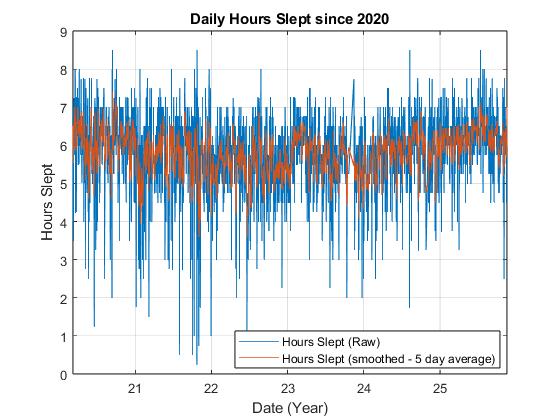
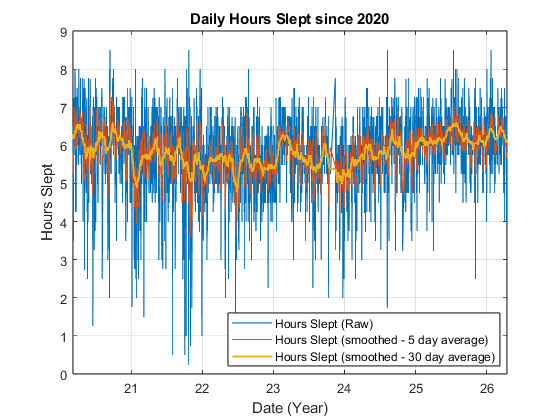
Update for Apr15 2026.  changed just2025 to from2025.  Fixed smoothing (smooth to smoothdata).

Changed region(s): [[0.1214, 0.0929, 0.9107, 0.9595], [0.3339, 0.8976, 0.3946, 0.9595], [0.2125, 0.8976, 0.2429, 0.9595]]

diff --git a/loadSleepLog_from2025.html b/loadSleepLog_from2025.html
@@ -6,11 +6,11 @@
 This HTML was auto-generated from MATLAB code.
 To make changes, update the MATLAB code and republish this document.
       -->
-<title>loadSleepLog_just2025</title>
+<title>loadSleepLog_from2025</title>
 <meta name="generator" content="MATLAB 23.2">
 <link rel="schema.DC" href="http://purl.org/dc/elements/1.1/">
 <meta name="DC.date" content="2025-11-19">
-<meta name="DC.source" content="loadSleepLog_just2025.m">
+<meta name="DC.source" content="loadSleepLog_from2025.m">
 <style type="text/css">
 html,body,div,span,applet,object,iframe,h1,h2,h3,h4,h5,h6,p,blockquote,pre,a,abbr,acronym,address,big,cite,code,del,dfn,em,font,img,ins,kbd,q,s,samp,small,strike,strong,tt,var,b,u,i,center,dl,dt,dd,ol,ul,li,fieldset,form,label,legend,table,caption,tbody,tfoot,thead,tr,th,td{margin:0;padding:0;border:0;outline:0;font-size:100%;vertical-align:baseline;background:transparent}body{line-height:1}ol,ul{list-style:none}blockquote,q{quotes:none}blockquote:before,blockquote:after,q:before,q:after{content:'';content:none}:focus{outine:0}ins{text-decoration:none}del{text-decoration:line-through}table{border-collapse:collapse;border-spacing:0}
 
@@ -103,7 +103,7 @@ table td { padding:7px 5px; text-align:left; vertical-align:top; border:1px soli
 <li>
 <a href="loadSleepLog_from2020.html#3">See from 2020</a>
 </li>
-<img vspace="5" hspace="5" src="loadSleepLog_just2025_01.png" alt=""> <img vspace="5" hspace="5" src="loadSleepLog_just2025_02.png" alt=""> <h2 id="5">Histogram of Wake Times</h2>
+<img vspace="5" hspace="5" src="loadSleepLog_from2025_01.png" alt=""> <img vspace="5" hspace="5" src="loadSleepLog_from2025_02.png" alt=""> <h2 id="5">Histogram of Wake Times</h2>
 <p>Each bin includes the leading edge, but does not include the trailing edge, except for the last bin which includes both edges.</p>
 <li>
 <a href="loadSleepLog_from2024.html#5">See from 2024</a>
@@ -111,7 +111,7 @@ table td { padding:7px 5px; text-align:left; vertical-align:top; border:1px soli
 <li>
 <a href="loadSleepLog_from2020.html#5">See from 2020</a>
 </li>
-<img vspace="5" hspace="5" src="loadSleepLog_just2025_03.png" alt=""> <h2 id="6">One Hour Bins</h2>
+<img vspace="5" hspace="5" src="loadSleepLog_from2025_03.png" alt=""> <h2 id="6">One Hour Bins</h2>
 <li>
 <a href="loadSleepLog_from2024.html#6">See from 2024</a>
 </li>
@@ -119,7 +119,7 @@ table td { padding:7px 5px; text-align:left; vertical-align:top; border:1px soli
 <a href="loadSleepLog_from2020.html#6">See from 2020</a>
 </li>
 
-<img vspace="5" hspace="5" src="loadSleepLog_just2025_04.png" alt=""> <p class="footer">
+<img vspace="5" hspace="5" src="loadSleepLog_from2025_04.png" alt=""> <p class="footer">
 <br>
 <a href="https://www.mathworks.com/products/matlab/">Published with MATLAB&reg; R2023b</a>
 <br>

diff --git a/loadSleepLog_from2024.html b/loadSleepLog_from2024.html
@@ -10,7 +10,7 @@ To make changes, update the MATLAB code and republish this document.
 <meta name="generator" content="MATLAB 23.2">
 <link rel="schema.DC" href="http://purl.org/dc/elements/1.1/">
 <meta name="DC.date" content="2025-11-19">
-<meta name="DC.source" content="loadSleepLog_just2025.m">
+<meta name="DC.source" content="loadSleepLog_from2025.m">
 <style type="text/css">
 html,body,div,span,applet,object,iframe,h1,h2,h3,h4,h5,h6,p,blockquote,pre,a,abbr,acronym,address,big,cite,code,del,dfn,em,font,img,ins,kbd,q,s,samp,small,strike,strong,tt,var,b,u,i,center,dl,dt,dd,ol,ul,li,fieldset,form,label,legend,table,caption,tbody,tfoot,thead,tr,th,td{margin:0;padding:0;border:0;outline:0;font-size:100%;vertical-align:baseline;background:transparent}body{line-height:1}ol,ul{list-style:none}blockquote,q{quotes:none}blockquote:before,blockquote:after,q:before,q:after{content:'';content:none}:focus{outine:0}ins{text-decoration:none}del{text-decoration:line-through}table{border-collapse:collapse;border-spacing:0}
 
@@ -80,7 +80,7 @@ table td { padding:7px 5px; text-align:left; vertical-align:top; border:1px soli
 <div>
 <ul>
 <li>
-<a href="loadSleepLog_just2025.html">From 2025</a>
+<a href="loadSleepLog_from2025.html">From 2025</a>
 </li>
 <li>
 <a href="loadSleepLog_from2020.html">From 2020</a>
@@ -98,7 +98,7 @@ table td { padding:7px 5px; text-align:left; vertical-align:top; border:1px soli
 </div>
 <h2 id="3">Wake Times and Hours Slept Over Time</h2>
 <li>
-<a href="loadSleepLog_just2025.html#3">See from 2025</a>
+<a href="loadSleepLog_from2025.html#3">See from 2025</a>
 </li>
 <li>
 <a href="loadSleepLog_from2020.html#3">See from 2020</a>
@@ -107,14 +107,14 @@ table td { padding:7px 5px; text-align:left; vertical-align:top; border:1px soli
 <h2 id="5">Histogram of Wake Times</h2>
 <p>Each bin includes the leading edge, but does not include the trailing edge, except for the last bin which includes both edges.</p>
 <li>
-<a href="loadSleepLog_just2025.html#5">See from 2025</a>
+<a href="loadSleepLog_from2025.html#5">See from 2025</a>
 </li>
 <li>
 <a href="loadSleepLog_from2020.html#5">See from 2020</a>
 </li>
 <img vspace="5" hspace="5" src="loadSleepLog_from2024_03.png" alt=""> <h2 id="6">One Hour Bins</h2>
 <li>
-<a href="loadSleepLog_just2025.html#6">See from 2025</a>
+<a href="loadSleepLog_from2025.html#6">See from 2025</a>
 </li>
 <li>
 <a href="loadSleepLog_from2020.html#6">See from 2020</a>

diff --git a/loadSleepLog_from2020.html b/loadSleepLog_from2020.html
@@ -10,7 +10,7 @@ To make changes, update the MATLAB code and republish this document.
 <meta name="generator" content="MATLAB 23.2">
 <link rel="schema.DC" href="http://purl.org/dc/elements/1.1/">
 <meta name="DC.date" content="2025-11-19">
-<meta name="DC.source" content="loadSleepLog_just2025.m">
+<meta name="DC.source" content="loadSleepLog_from2025.m">
 <style type="text/css">
 html,body,div,span,applet,object,iframe,h1,h2,h3,h4,h5,h6,p,blockquote,pre,a,abbr,acronym,address,big,cite,code,del,dfn,em,font,img,ins,kbd,q,s,samp,small,strike,strong,tt,var,b,u,i,center,dl,dt,dd,ol,ul,li,fieldset,form,label,legend,table,caption,tbody,tfoot,thead,tr,th,td{margin:0;padding:0;border:0;outline:0;font-size:100%;vertical-align:baseline;background:transparent}body{line-height:1}ol,ul{list-style:none}blockquote,q{quotes:none}blockquote:before,blockquote:after,q:before,q:after{content:'';content:none}:focus{outine:0}ins{text-decoration:none}del{text-decoration:line-through}table{border-collapse:collapse;border-spacing:0}
 
@@ -80,7 +80,7 @@ table td { padding:7px 5px; text-align:left; vertical-align:top; border:1px soli
 <div>
 <ul>
 <li>
-<a href="loadSleepLog_just2025.html">From 2025</a>
+<a href="loadSleepLog_from2025.html">From 2025</a>
 </li>
 <li>
 <a href="loadSleepLog_from2024.html">From 2024</a>
@@ -98,7 +98,7 @@ table td { padding:7px 5px; text-align:left; vertical-align:top; border:1px soli
 </div>
 <h2 id="3">Wake Times and Hours Slept Over Time</h2>
 <li>
-<a href="loadSleepLog_just2025.html#3">See from 2025</a>
+<a href="loadSleepLog_from2025.html#3">See from 2025</a>
 </li>
 <li>
 <a href="loadSleepLog_from2024.html">See from 2024</a>
@@ -107,14 +107,14 @@ table td { padding:7px 5px; text-align:left; vertical-align:top; border:1px soli
 <h2 id="5">Histogram of Wake Times</h2>
 <p>Each bin includes the leading edge, but does not include the trailing edge, except for the last bin which includes both edges.</p>
 <li>
-<a href="loadSleepLog_just2025.html#5">See from 2025</a>
+<a href="loadSleepLog_from2025.html#5">See from 2025</a>
 </li>
 <li>
 <a href="loadSleepLog_from2024.html#5">See from 2024</a>
 </li>
 <img vspace="5" hspace="5" src="loadSleepLog_from2020_03.png" alt=""> <h2 id="6">One Hour Bins</h2>
 <li>
-<a href="loadSleepLog_just2025.html#6">See from 2025</a>
+<a href="loadSleepLog_from2025.html#6">See from 2025</a>
 </li>
 <li>
 <a href="loadSleepLog_from2024.html#6">See from 2024</a>
